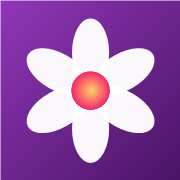
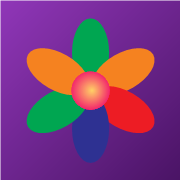
Add SHOUT flowers, colour-aware picture feedback and edge ribbon

diff --git a/js/app.js b/js/app.js
@@ -41,21 +41,21 @@ const I = {
   sparkle: '<svg viewBox="0 0 24 24" fill="currentColor"><path d="M12 2l1.9 5.7a2 2 0 0 0 1.3 1.3L21 11l-5.8 2a2 2 0 0 0-1.3 1.3L12 20l-1.9-5.7a2 2 0 0 0-1.3-1.3L3 11l5.8-2a2 2 0 0 0 1.3-1.3L12 2Z"/><circle cx="19" cy="5" r="1.6"/><circle cx="5" cy="19" r="1.3"/></svg>',
 };
 
-/* Flower logo (brand mark used across the app, as in the recordings) */
+/* SHOUT-IT-NOW flower: one shared colour language across the app. */
+const SHOUT_COLORS = ['#00a651', '#f58220', '#ed1c24', '#2e3192'];
+let flowerInstance = 0;
 function flowerSVG(size = 34, opts = {}) {
+  const coreId = `shout-core-${++flowerInstance}`;
   const petals = [];
   for (let k = 0; k < 6; k++) {
-    petals.push(`<ellipse cx="0" cy="-13" rx="6.5" ry="12" transform="rotate(${k * 60})" fill="${opts.petal || 'url(#mmpet)'}" opacity=".96"/>`);
+    petals.push(`<ellipse cx="0" cy="-13" rx="6.5" ry="12" transform="rotate(${k * 60})" fill="${SHOUT_COLORS[k % SHOUT_COLORS.length]}" opacity=".97"/>`);
   }
   return `<svg viewBox="-25 -25 50 50" width="${size}" height="${size}" aria-hidden="true">
     <defs>
-      <linearGradient id="mmpet" x1="0" y1="-1" x2="0" y2="1">
-        <stop offset="0" stop-color="#ffffff"/><stop offset="1" stop-color="#fbc9e4"/>
-      </linearGradient>
-      <radialGradient id="mmcore"><stop offset="0" stop-color="#ffd166"/><stop offset="1" stop-color="#f3256b"/></radialGradient>
+      <radialGradient id="${coreId}"><stop offset="0" stop-color="#ffffff"/><stop offset=".45" stop-color="#ffd166"/><stop offset="1" stop-color="#f3256b"/></radialGradient>
     </defs>
     <g>${petals.join('')}</g>
-    <circle r="6.6" fill="${opts.core || 'url(#mmcore)'}"/>
+    <circle r="6.6" fill="${opts.core || `url(#${coreId})`}"/>
   </svg>`;
 }
 
@@ -156,10 +156,10 @@ const FX = (() => {
   fit(); addEventListener('resize', fit);
   const reduced = matchMedia('(prefers-reduced-motion: reduce)').matches;
   const palettes = [
-    ['#f3256b', '#f9a8d4', '#ffffff', '#e393ec', '#ffd166'],
-    ['#34c759', '#ffd166', '#ffffff', '#f0813c', '#ee2b63'],
-    ['#5a5fbf', '#c04ac4', '#fbc9e4', '#ffffff', '#7ec86e'],
-    ['#ff8a3d', '#f3256b', '#8e3ba8', '#ffd166', '#ffffff'],
+    ['#00a651', '#f58220', '#ed1c24', '#2e3192', '#ffffff'],
+    ['#f58220', '#ed1c24', '#2e3192', '#00a651', '#ffd166'],
+    ['#2e3192', '#00a651', '#f58220', '#ed1c24', '#fbc9e4'],
+    ['#ed1c24', '#2e3192', '#00a651', '#f58220', '#ffffff'],
   ];
   const auraModes = ['bloom', 'care', 'spiral', 'starlight'];
   let lastAura = -1;
@@ -646,13 +646,12 @@ function gardenSVG() {
     const x = 26 + i * ((w - 52) / Math.max(1, moods.length - 1) || 0);
     const h = m.starter ? 42 : 26 + ((i * 7919) % 22);
     const mood = MM.MOODS.find(x2 => x2.key === m.mood) || MM.MOODS[0];
-    const starterColors = ['#ffffff', '#f9a8d4', '#ffd166', '#e393ec', '#f3256b'];
     const petals = Array.from({ length: 5 }, (_, k) =>
-      `<ellipse cx="0" cy="-7.2" rx="3.6" ry="7.2" transform="rotate(${k * 72})" fill="${m.starter ? starterColors[k] : mood.color}" opacity=".95"/>`).join('');
+      `<ellipse cx="0" cy="-7.2" rx="3.6" ry="7.2" transform="rotate(${k * 72})" fill="${SHOUT_COLORS[k % SHOUT_COLORS.length]}" opacity=".96"/>`).join('');
     return `<g class="flower ${m.starter ? 'starter-flower' : ''}" style="animation-delay:${i * .06}s, ${i * .4}s">
       <path d="M${x} 86 Q${x - 5} ${86 - h / 2} ${x} ${86 - h}" stroke="#7ec86e" stroke-width="2.6" fill="none"/>
       <ellipse cx="${x - 6}" cy="${86 - h * .45}" rx="5.4" ry="2.3" fill="#7ec86e" transform="rotate(-32 ${x - 6} ${86 - h * .45})"/>
-      <g transform="translate(${x} ${86 - h})">${petals}<circle r="3.4" fill="#ffd166"/></g>
+      <g transform="translate(${x} ${86 - h})">${petals}<circle r="4.5" fill="${m.starter ? '#ffd166' : mood.color}" stroke="#fff" stroke-width="1.1"/><circle r="1.8" fill="#fff" opacity=".92"/></g>
     </g>`;
   }).join('');
   return `<div class="garden"><svg width="${w}" height="92" viewBox="0 0 ${w} 92">${flowers}</svg></div>`;
@@ -1215,6 +1214,10 @@ function artDetail(a, tab) {
   if (!st || st.option == null) return nav(`#/art/${a.id}`);
   const kind = MM.ART_OPTION_KINDS[st.option];
   const tabs = [['start', 'Start Here'], ['materials', 'Materials'], ['pictures', 'Pictures'], ['reflections', 'Reflections']];
+  const uploadSrc = upload => typeof upload === 'string' ? upload : upload.src;
+  const uploadAnalysis = upload => typeof upload === 'object' ? upload.analysis : null;
+  const analysedUploads = st.uploads.map(uploadAnalysis).filter(Boolean);
+  const latestAnalysis = analysedUploads[analysedUploads.length - 1];
 
   let body = '';
   if (tab === 'start') {
@@ -1243,10 +1246,21 @@ function artDetail(a, tab) {
   } else if (tab === 'pictures') {
     body = `
       ${st.uploads.length
-        ? `<div class="upload-grid">${st.uploads.map((u, i) => `
-            <div class="shot"><img src="${u}" alt="Upload ${i + 1}" /><button class="del" data-del="${i}" aria-label="Delete">${I.x}</button></div>`).join('')}
+        ? `<div class="upload-grid">${st.uploads.map((upload, i) => `
+            <div class="shot"><img src="${uploadSrc(upload)}" alt="Upload ${i + 1}" />${uploadAnalysis(upload) ? `<span class="shot-read" title="Colours read by Mojo Guide">${I.sparkle}</span>` : ''}<button class="del" data-del="${i}" aria-label="Delete">${I.x}</button></div>`).join('')}
           </div>`
         : `<div class="info-card"><p class="empty-note">No pictures have been uploaded yet.</p></div>`}
+      ${latestAnalysis ? `
+        <div class="colour-insight">
+          <span class="colour-insight-mark">${I.sparkle}</span>
+          <div class="grow">
+            <h4>Mojo Guide colour note</h4>
+            <p>${esc(latestAnalysis.feedback)}</p>
+            <div class="colour-palette">${latestAnalysis.palette.map((colour, i) => `<span style="--swatch:${colour}" title="Palette colour ${i + 1}"></span>`).join('')}</div>
+            <small>Read on this device from colour only · not a mental-health assessment</small>
+          </div>
+        </div>`
+        : st.uploads.length ? `<button class="btn btn-ghost read-colours" id="read-colours">${I.sparkle} Read colours</button>` : ''}
       <input type="file" id="file-in" accept="image/*" multiple class="hidden" />
       <div class="act-foot-btns" style="padding:0;justify-content:space-between">
         <button class="btn btn-ghost" id="upload-btn" style="display:inline-flex;align-items:center;gap:8px">${I.camera} Upload</button>
@@ -1298,11 +1312,24 @@ function artDetail(a, tab) {
   $('#upload-btn')?.addEventListener('click', () => $('#file-in').click());
   $('#file-in')?.addEventListener('change', async e => {
     const files = [...e.target.files].slice(0, 6);
+    toast(`Reading colour${files.length > 1 ? 's' : ''} on this device…`, 1800);
     for (const f of files) {
       const url = await shrinkImage(f);
-      st.uploads.push(url);
+      const analysis = await analyzeArtwork(url);
+      st.uploads.push({ src: url, analysis });
     }
     save(); toast(`${files.length} picture${files.length > 1 ? 's' : ''} added 📸`);
+    artDetail(a, 'pictures');
+  });
+  $('#read-colours')?.addEventListener('click', async () => {
+    const button = $('#read-colours');
+    button.disabled = true; button.textContent = 'Reading colours…';
+    for (let i = 0; i < st.uploads.length; i++) {
+      if (uploadAnalysis(st.uploads[i])) continue;
+      const src = uploadSrc(st.uploads[i]);
+      st.uploads[i] = { src, analysis: await analyzeArtwork(src) };
+    }
+    save(); toast('Colour note ready ✨');
     artDetail(a, 'pictures');
   });
   app.querySelectorAll('[data-del]').forEach(b => b.addEventListener('click', e => {
@@ -1349,6 +1376,78 @@ function shrinkImage(file) {
   });
 }
 
+function analyzeArtwork(src) {
+  return new Promise(resolve => {
+    const img = new Image();
+    img.onload = () => {
+      const size = 72;
+      const canvas = document.createElement('canvas');
+      canvas.width = size; canvas.height = size;
+      const ctx = canvas.getContext('2d', { willReadFrequently: true });
+      ctx.fillStyle = '#fff'; ctx.fillRect(0, 0, size, size);
+      const scale = Math.min(size / img.width, size / img.height);
+      const width = img.width * scale, height = img.height * scale;
+      ctx.drawImage(img, (size - width) / 2, (size - height) / 2, width, height);
+      const pixels = ctx.getImageData(0, 0, size, size).data;
+      const families = { red: 0, orange: 0, yellow: 0, green: 0, blue: 0, purple: 0, pink: 0, neutral: 0 };
+      const bins = new Map();
+      let count = 0, lightSum = 0, lightSquared = 0;
+      for (let i = 0; i < pixels.length; i += 16) {
+        const r = pixels[i], g = pixels[i + 1], b = pixels[i + 2], alpha = pixels[i + 3];
+        if (alpha < 100) continue;
+        const max = Math.max(r, g, b) / 255, min = Math.min(r, g, b) / 255;
+        const light = (max + min) / 2;
+        const delta = max - min;
+        const saturation = delta === 0 ? 0 : delta / (1 - Math.abs(2 * light - 1));
+        let hue = 0;
+        if (delta) {
+          if (max === r / 255) hue = 60 * (((g - b) / 255 / delta) % 6);
+          else if (max === g / 255) hue = 60 * ((b - r) / 255 / delta + 2);
+          else hue = 60 * ((r - g) / 255 / delta + 4);
+          if (hue < 0) hue += 360;
+        }
+        let family = 'neutral';
+        if (saturation > .16 && light > .08 && light < .96) {
+          if (hue < 15 || hue >= 345) family = 'red';
+          else if (hue < 45) family = 'orange';
+          else if (hue < 70) family = 'yellow';
+          else if (hue < 165) family = 'green';
+          else if (hue < 255) family = 'blue';
+          else if (hue < 300) family = 'purple';
+          else family = 'pink';
+        }
+        families[family] += family === 'neutral' ? .2 : 1 + saturation;
+        if (!(r > 246 && g > 246 && b > 246)) {
+          const qr = Math.min(255, Math.round(r / 40) * 40);
+          const qg = Math.min(255, Math.round(g / 40) * 40);
+          const qb = Math.min(255, Math.round(b / 40) * 40);
+          const key = `#${[qr, qg, qb].map(v => v.toString(16).padStart(2, '0')).join('')}`;
+          bins.set(key, (bins.get(key) || 0) + 1);
+        }
+        count++; lightSum += light; lightSquared += light * light;
+      }
+      const ranked = Object.entries(families).sort((a, b) => b[1] - a[1]);
+      const dominant = ranked[0]?.[1] ? ranked[0][0] : 'neutral';
+      const secondary = ranked[1]?.[1] > ranked[0]?.[1] * .25 ? ranked[1][0] : null;
+      const brightness = count ? lightSum / count : .5;
+      const contrast = count ? Math.sqrt(Math.max(0, lightSquared / count - brightness * brightness)) : 0;
+      const meanings = {
+        red: 'energy and courage', orange: 'warmth and movement', yellow: 'hope and light',
+        green: 'growth and balance', blue: 'calm and reflection', purple: 'imagination and depth',
+        pink: 'care and connection', neutral: 'quiet focus',
+      };
+      const names = `${dominant}${secondary ? ` and ${secondary}` : ''}`;
+      const tone = brightness > .72 ? 'bright and open' : brightness < .34 ? 'deep and grounded' : 'balanced';
+      const finish = contrast > .22 ? 'Strong contrast adds a clear sense of movement.' : 'The gentle contrast keeps the feeling cohesive.';
+      const feedback = `${names[0].toUpperCase()}${names.slice(1)} tones stand out, which can suggest ${meanings[dominant]}; the palette feels ${tone}. ${finish}`;
+      const palette = [...bins.entries()].sort((a, b) => b[1] - a[1]).slice(0, 4).map(([colour]) => colour);
+      resolve({ dominant, secondary, brightness: +brightness.toFixed(2), contrast: +contrast.toFixed(2), palette: palette.length ? palette : ['#f9a8d4', '#7b21a8'], feedback, analyzedAt: Date.now() });
+    };
+    img.onerror = () => resolve({ dominant: 'neutral', secondary: null, brightness: .5, contrast: 0, palette: ['#f9a8d4', '#7b21a8'], feedback: 'I could not read the colours in this image yet. You can upload another picture or describe the palette in Chat.', analyzedAt: Date.now() });
+    img.src = src;
+  });
+}
+
 /* ── Chat ────────────────────────────────────────────────── */
 routes.chat = (params, isBack) => {
   if (!chatOpen()) { toast('Complete your Pre-Survey to unlock Chat ✨'); return nav('#/pre'); }
@@ -1388,6 +1487,7 @@ function chatChannels(scope, isBack) {
 
 /* ── Mojo Guide — indexed, activity-aware, safe ─────────── */
 function fillAIContext(template, activity) {
+  const latestUpload = [...(actState(activity.id)?.uploads || [])].reverse().find(upload => typeof upload === 'object' && upload.analysis);
   const values = {
     act: activity.name,
     materials: activity.materials.slice(0, 3).join('; '),
@@ -1396,6 +1496,7 @@ function fillAIContext(template, activity) {
     reflections: activity.reflections.slice(0, 2).join(' / '),
     week: currentWeek(),
     done: actsDone(),
+    artwork: latestUpload?.analysis?.feedback || 'I have not read colours from an uploaded picture for this activity yet. Add one in the Pictures tab, then ask me again.',
   };
   return template.replace(/\{(\w+)\}/g, (_, key) => values[key] ?? '');
 }

diff --git a/css/app.css b/css/app.css
@@ -89,6 +89,27 @@ body {
   display: flex; flex-direction: column;
   overflow: hidden;
 }
+@property --shout-edge-angle {
+  syntax: '<angle>';
+  initial-value: 0deg;
+  inherits: false;
+}
+#phone::after {
+  content: ""; position: absolute; inset: 0; z-index: 85; pointer-events: none;
+  padding: 2px; border-radius: inherit;
+  background: conic-gradient(from var(--shout-edge-angle),
+    #00a651 0 10%, #fff 10% 11%, #f58220 11% 23%, #fff 23% 24%,
+    #ed1c24 24% 36%, #fff 36% 37%, #2e3192 37% 49%, #fff 49% 50%,
+    #00a651 50% 62%, #fff 62% 63%, #f58220 63% 75%, #fff 75% 76%,
+    #ed1c24 76% 88%, #fff 88% 89%, #2e3192 89% 100%);
+  -webkit-mask: linear-gradient(#000 0 0) content-box, linear-gradient(#000 0 0);
+  -webkit-mask-composite: xor;
+  mask-composite: exclude;
+  opacity: .86;
+  filter: drop-shadow(0 0 4px rgba(249,168,212,.32));
+  animation: shout-edge-flow 34s linear infinite;
+}
+@keyframes shout-edge-flow { to { --shout-edge-angle: 1turn; } }
 @media (min-width: 520px) and (min-height: 720px) {
   #phone {
     height: min(920px, calc(100dvh - 48px));
@@ -792,6 +813,33 @@ body {
   background: rgba(20,5,30,.72); color: #fff; display: grid; place-items: center;
 }
 .upload-grid .shot .del svg { width: 13px; height: 13px; }
+.upload-grid .shot-read {
+  position: absolute; left: 6px; bottom: 6px; width: 24px; height: 24px;
+  border-radius: 50%; display: grid; place-items: center;
+  color: #ffd166; background: rgba(42,11,64,.78);
+  border: 1px solid rgba(255,255,255,.52); box-shadow: 0 3px 9px rgba(0,0,0,.28);
+}
+.upload-grid .shot-read svg { width: 13px; height: 13px; }
+.colour-insight {
+  display: flex; gap: 12px; align-items: flex-start;
+  background: rgba(255,255,255,.97); border: 1.5px solid rgba(249,168,212,.85);
+  border-radius: 16px; padding: 14px; box-shadow: var(--shadow-1);
+  animation: card-pop .4s both;
+}
+.colour-insight-mark {
+  flex: 0 0 auto; width: 34px; height: 34px; border-radius: 11px;
+  display: grid; place-items: center; color: #fff;
+  background: conic-gradient(#00a651, #f58220, #ed1c24, #2e3192, #00a651);
+  box-shadow: 0 4px 12px rgba(92,22,128,.28);
+}
+.colour-insight-mark svg { width: 17px; height: 17px; }
+.colour-insight h4 { margin: 0 0 4px; color: var(--ink); font-size: 13.6px; }
+.colour-insight p { margin: 0; color: var(--ink-soft); font-size: 12.4px; line-height: 1.55; }
+.colour-insight small { display: block; margin-top: 7px; color: #8b819a; font-size: 9.4px; line-height: 1.35; }
+.colour-palette { display: flex; gap: 6px; margin-top: 9px; }
+.colour-palette span { width: 25px; height: 10px; border-radius: 99px; background: var(--swatch); border: 1px solid rgba(42,11,64,.14); box-shadow: inset 0 1px 0 rgba(255,255,255,.42); }
+.read-colours { align-self: center; display: inline-flex; align-items: center; gap: 8px; }
+.read-colours svg { width: 16px; height: 16px; }
 .empty-note { text-align: center; color: var(--ink-soft); font-size: 13px; font-style: italic; padding: 26px 10px; }
 
 .refl-q { display: flex; flex-direction: column; gap: 8px; }

diff --git a/js/data.js b/js/data.js
@@ -700,6 +700,11 @@ MM.AI = {
       reply: 'Open {act}, choose the Pictures tab, then tap Upload. Your image is compressed on your device before it is saved, so it stays lighter on mobile data. 📸',
     },
     {
+      id: 'artwork colours',
+      terms: ['colour', 'colours', 'color', 'colors', 'palette', 'what do you see', 'my artwork', 'my picture'],
+      reply: '{artwork}',
+    },
+    {
       id: 'reflections',
       terms: ['reflect', 'reflection', 'journal', 'what to write', 'diary'],
       reply: 'For {act}, you can begin with either of these prompts: {reflections}. Honest and short is enough — there is no right answer. 💭',

diff --git a/sw.js b/sw.js
@@ -2,7 +2,7 @@
    © IONITY Global (Pty) Ltd */
 'use strict';
 
-const VERSION = 'mojomind-v1.4.0';
+const VERSION = 'mojomind-v1.5.0';
 const SHELL = [
   './',
   './index.html',
